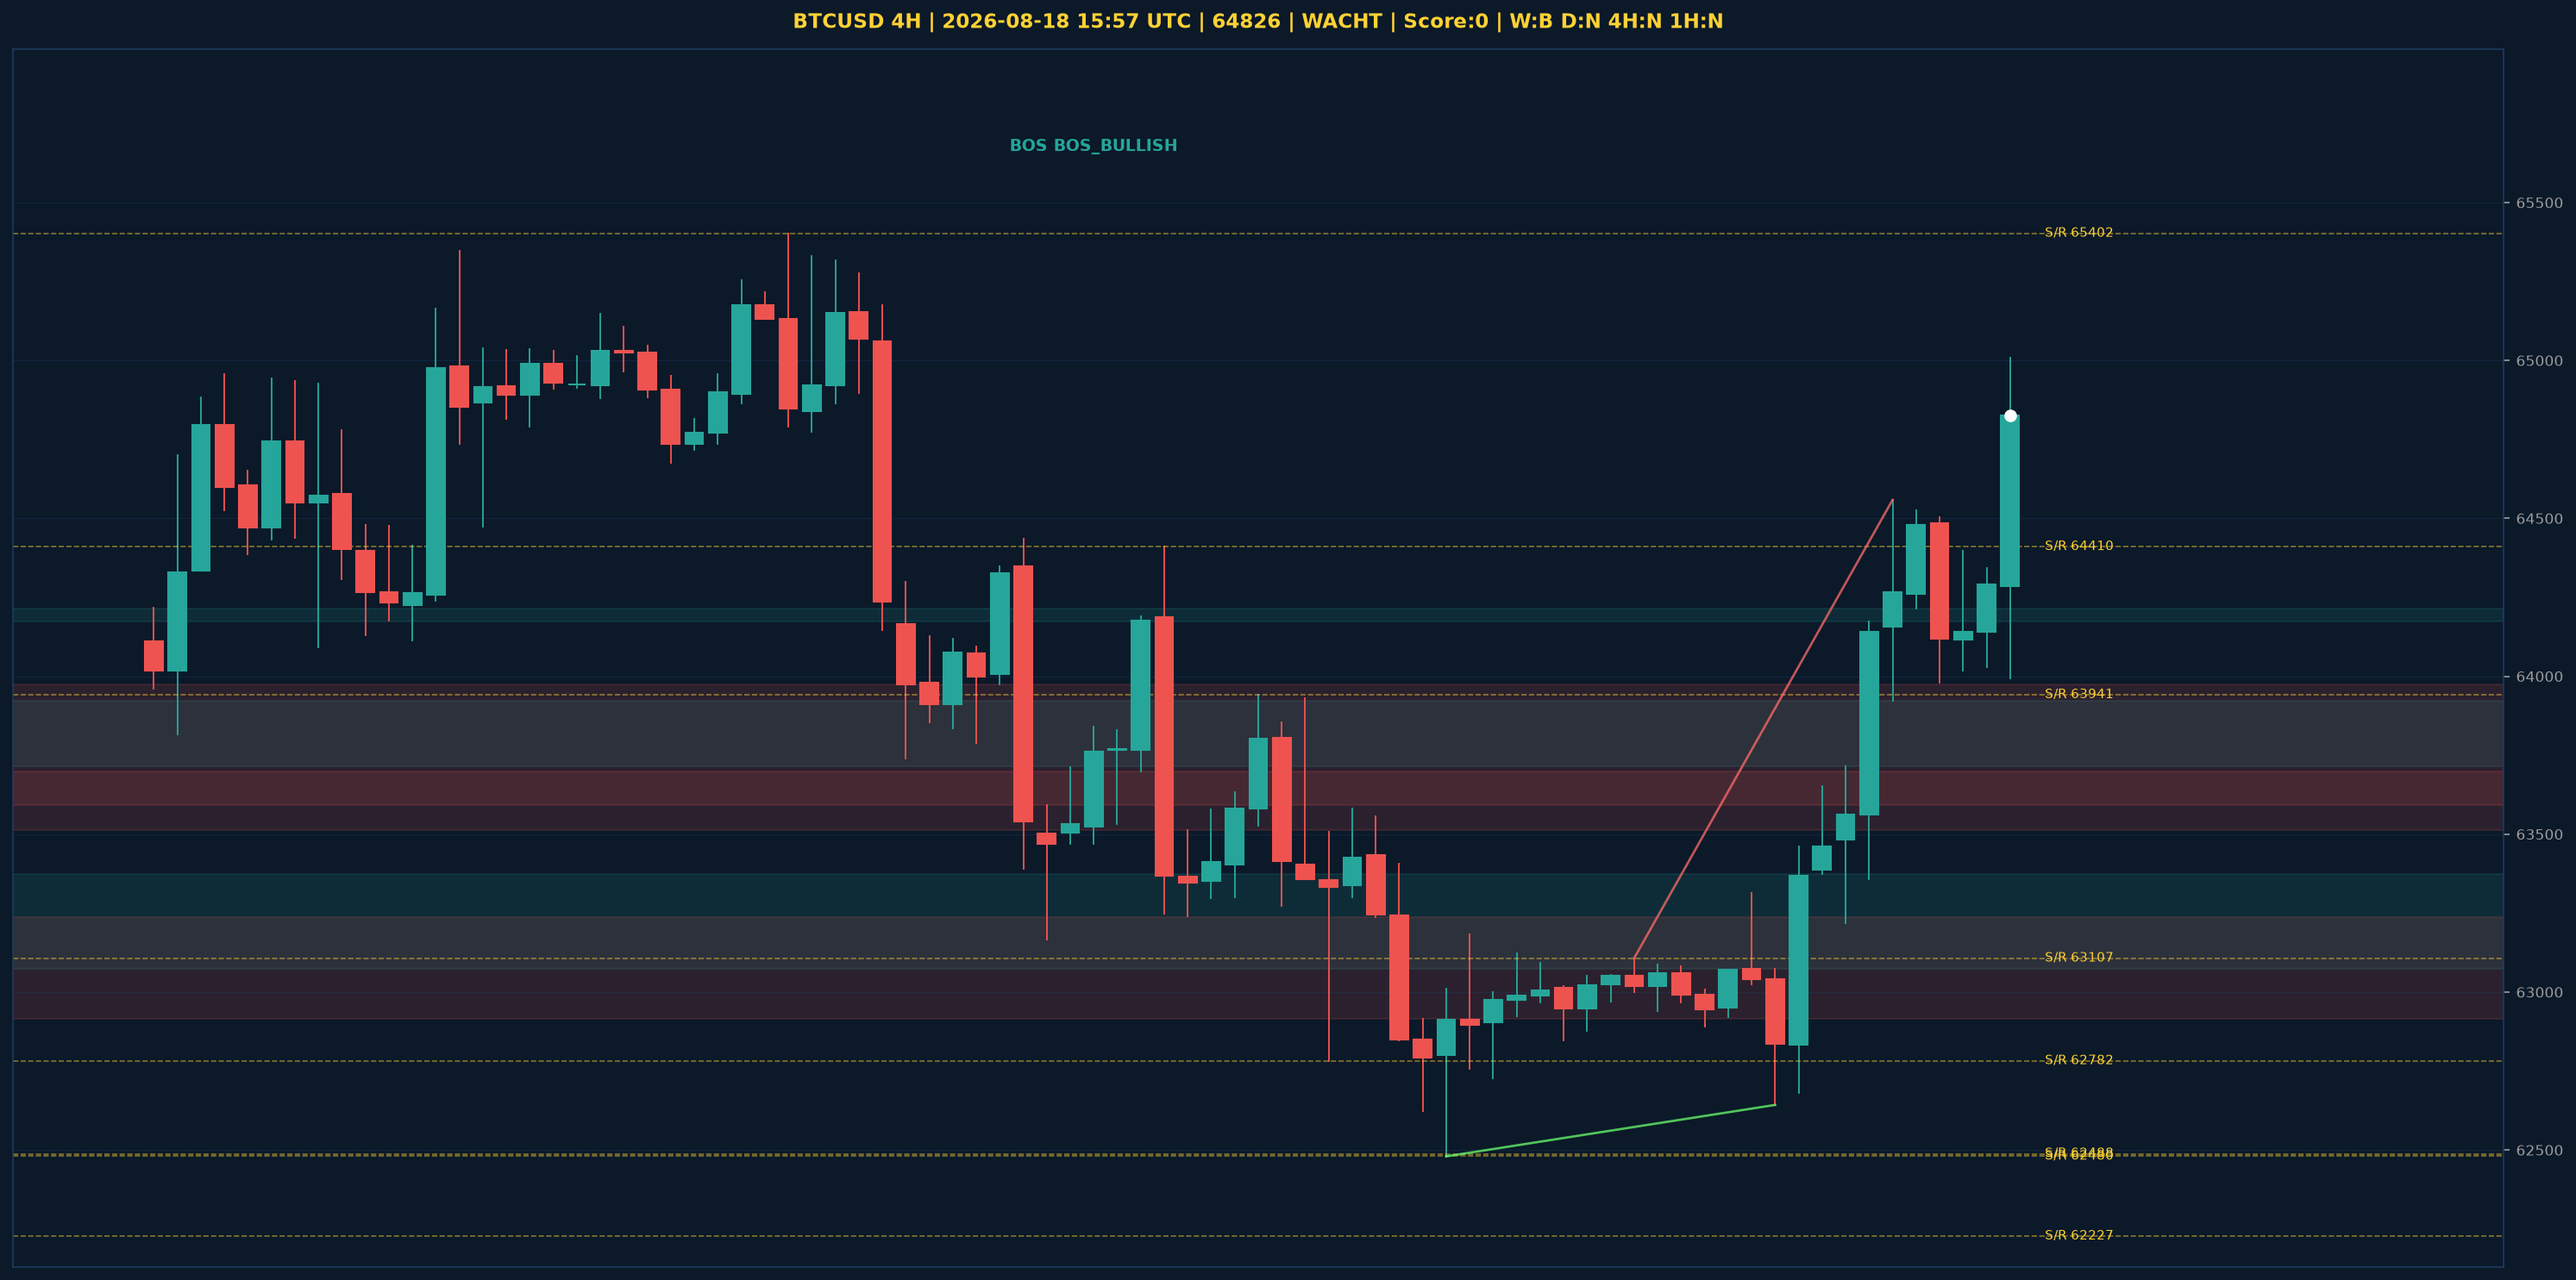
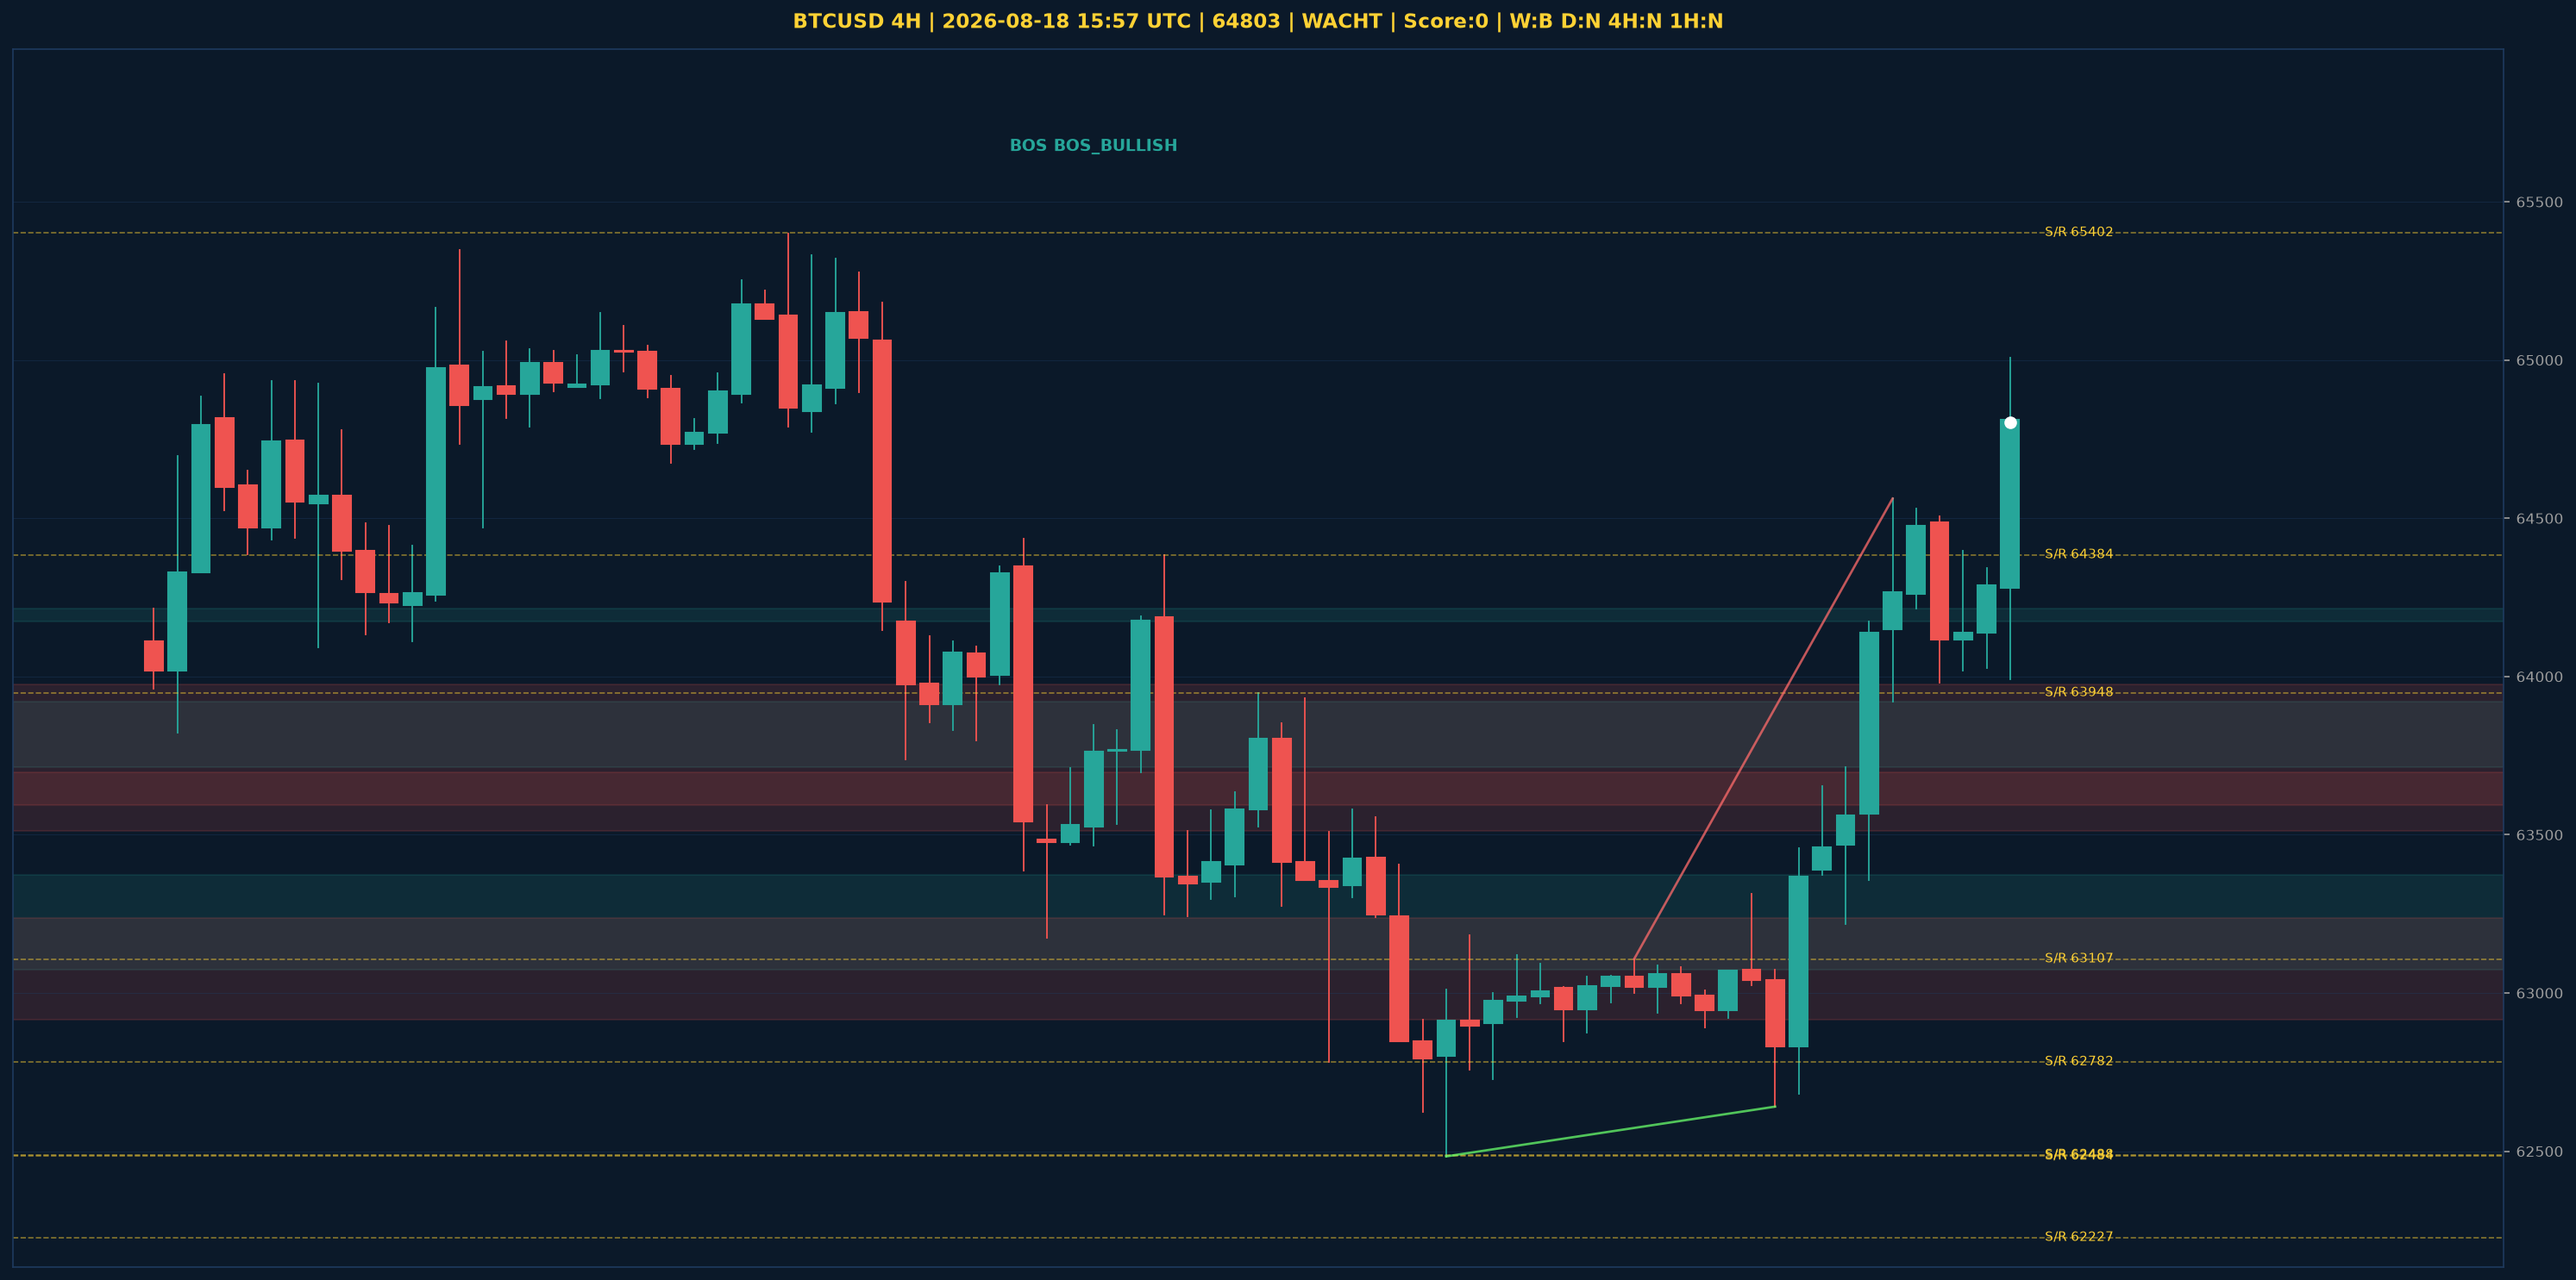
XAUUSD auto 2026-08-18_1557 UTC

Changed region(s): [[0.7784, 0.9603, 0.8406, 0.9912], [0.7784, 0.5266, 0.8406, 0.5576], [0.7784, 0.4027, 0.8095, 0.4337]]

diff --git a/reports/BTCUSD/2026-08-18_1557_BTCUSD.md b/reports/BTCUSD/2026-08-18_1557_BTCUSD.md
@@ -1,6 +1,6 @@
 # BTCUSD Liquidity Sweep Analyse - 2026-08-18 15:57 UTC
 
-> Prijs: 64826 | Beslissing: WACHT | Score: 0
+> Prijs: 64803 | Beslissing: WACHT | Score: 0
 
 ---
 
@@ -9,9 +9,9 @@
 - **Manipulatie:** geen sweep gedetecteerd
 - **5m reversal (BOS/iFVG):** niet bevestigd (iFVG: geen)
 - **1m entry trigger:** niet bevestigd
-- **XRP 5m trend:** BULLISH | **Correlatie:** niet aligned
-- **Draws on liquidity (highs):** [64342.0, 64504.0, 65008.0]
-- **Draws on liquidity (lows):** [62643.0, 63921.0, 63979.0, 63994.0, 64027.0]
+- **XRP 5m trend:** NEUTRAAL | **Correlatie:** niet aligned
+- **Draws on liquidity (highs):** [64342.0, 64507.0, 65007.0]
+- **Draws on liquidity (lows):** [62641.0, 63921.0, 63979.0, 63991.0, 64027.0]
 
 ---
 
@@ -45,7 +45,7 @@
 ## S/R
 
 Daily: [57748.0, 58076.0, 62227.0, 62488.0, 65402.0, 66910.0]
-4H: [62480.0, 62782.0, 63107.0, 63941.0, 64410.0]
-1H: [62643.0, 63218.0, 63653.0, 63979.0, 64397.0]
+4H: [62484.0, 62782.0, 63107.0, 63948.0, 64384.0]
+1H: [62641.0, 63218.0, 63653.0, 63979.0, 64397.0]
 
 *MVR Trading Agent | 2026-08-18 15:57 UTC*

diff --git a/reports/XRPUSD/2026-08-18_1557_XRPUSD.md b/reports/XRPUSD/2026-08-18_1557_XRPUSD.md
@@ -1,6 +1,6 @@
 # XRPUSD Liquidity Sweep Analyse - 2026-08-18 15:57 UTC
 
-> Prijs: 1.0027 | Beslissing: WACHT | Score: -2
+> Prijs: 1.0026 | Beslissing: WACHT | Score: -2
 
 ---
 
@@ -11,7 +11,7 @@
 - **1m entry trigger:** niet bevestigd
 - **BTC 5m trend:** BULLISH | **Correlatie:** niet aligned
 - **Draws on liquidity (highs):** [1.0005, 1.0039, 1.0055, 1.0061, 1.0076]
-- **Draws on liquidity (lows):** [0.988, 0.9884, 0.9915, 0.995]
+- **Draws on liquidity (lows):** [0.988, 0.9883, 0.9915, 0.995]
 
 ---
 
@@ -30,7 +30,7 @@
 | 4H | NEUTRAAL |
 | 1H | NEUTRAAL |
 | 30min | BULLISH |
-| 5min | BULLISH |
+| 5min | NEUTRAAL |
 
 ## Fibonacci (swing 0.9884 - 1.3838)
 
@@ -45,7 +45,7 @@
 ## S/R
 
 Daily: [0.9884, 1.0459, 1.0554, 1.0701, 1.1275, 1.1628, 1.1812, 1.2893]
-4H: [0.988, 0.9976, 1.0053, 1.0133]
-1H: [0.9884, 0.9915, 0.9955, 0.9985, 1.0039, 1.0076]
+4H: [0.9876, 0.9976, 1.0052, 1.0133]
+1H: [0.9883, 0.9915, 0.9954, 0.9985, 1.0039, 1.0076]
 
 *MVR Trading Agent | 2026-08-18 15:57 UTC*
